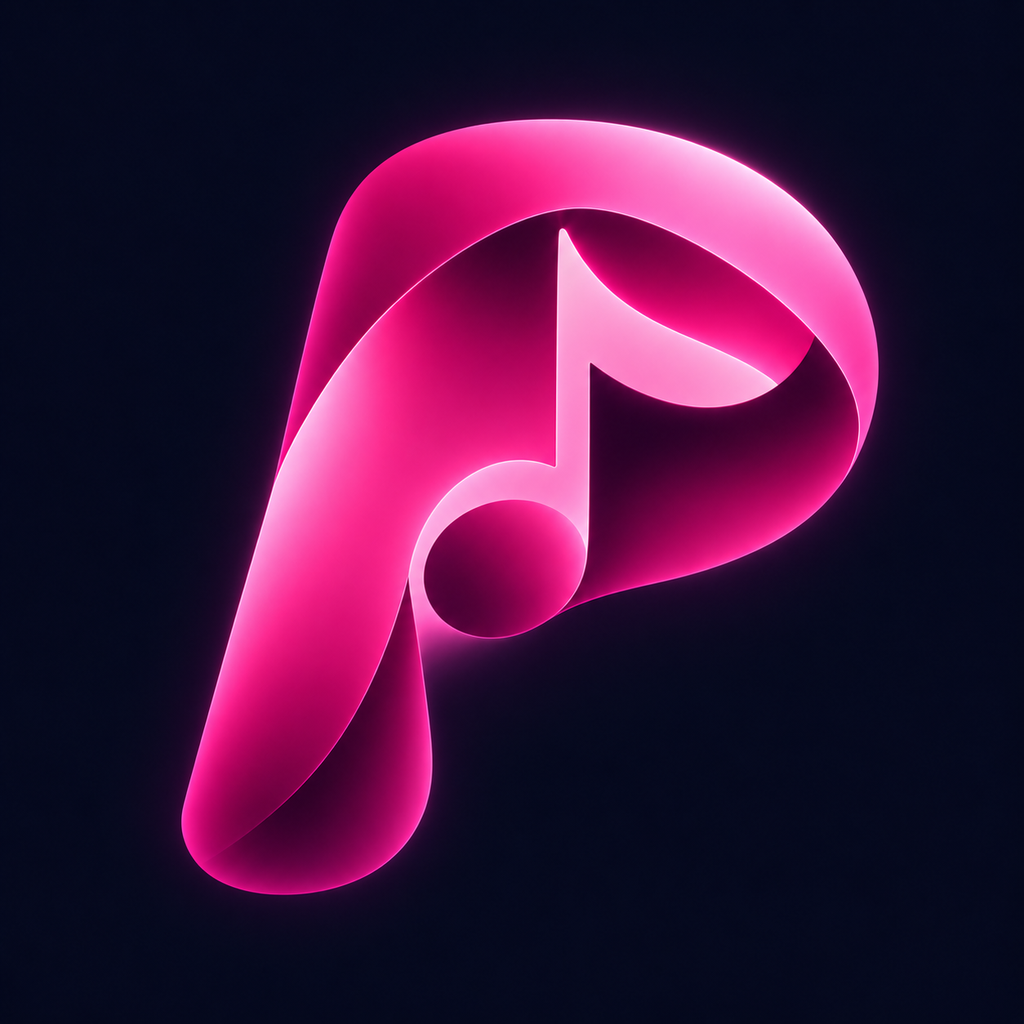
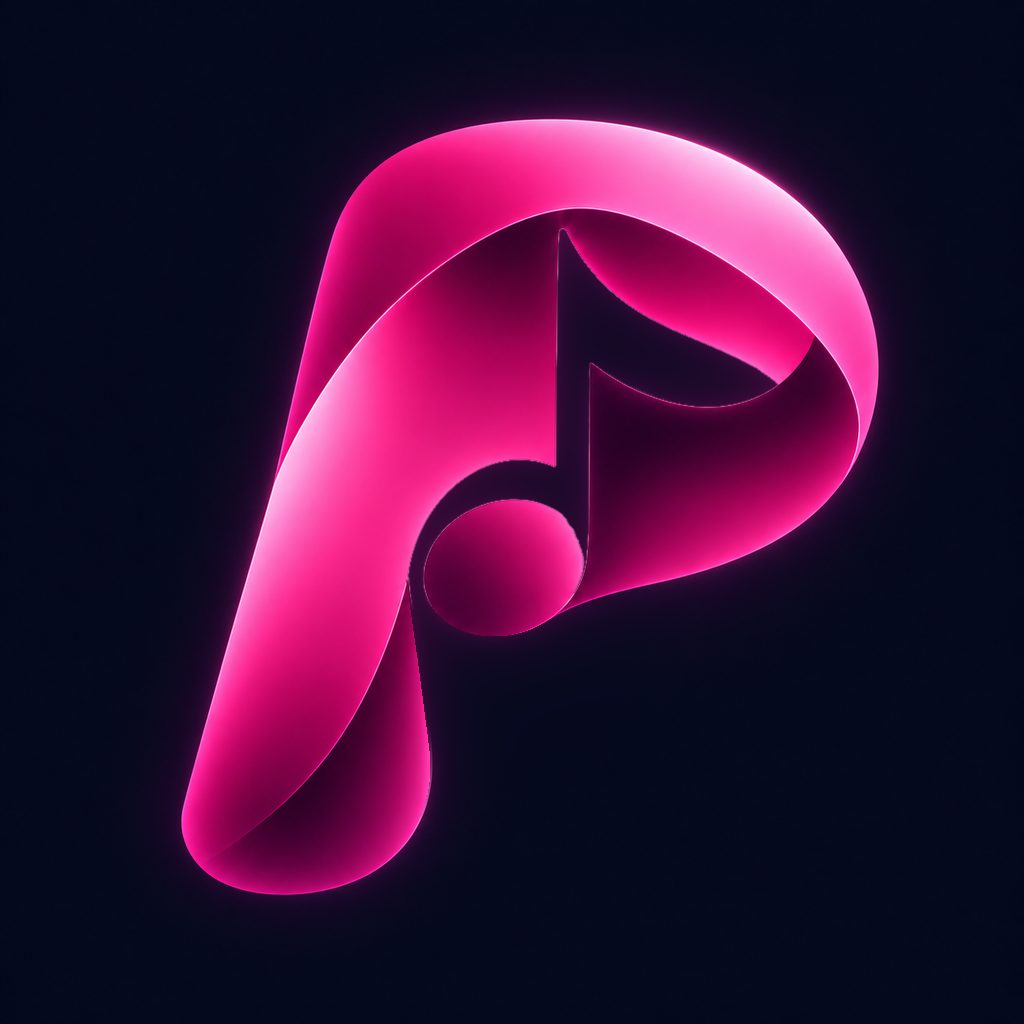
Primuse 图标的深色与单色样式也改成镂空音符，与浅色一致
Apple TV 图标分层、顶部横幅与品牌标记同步更新。

Changed region(s): [[0.375, 0.2188, 0.75, 0.75]]

diff --git a/IconDesign/AppIcons2026/README.md b/IconDesign/AppIcons2026/README.md
@@ -2,7 +2,7 @@
 
 The production catalog contains one primary icon and seven alternates:
 
-- `00-primuse.png` — primary icon, named Primuse: a folded magenta ribbon that forms a P, with an eighth note set into its bowl. Light puts it on warm white, Dark on deep navy with a soft pink glow, and Tinted renders it as a white ribbon on grey.
+- `00-primuse.png` — primary icon, named Primuse: a folded magenta ribbon that forms a P, with an eighth note cut out of its bowl. Light puts it on warm white, Dark on deep navy with a soft pink glow, and Tinted renders it as a white ribbon on charcoal; in all three the note is negative space showing the plate's own ground.
 - `20-soft-note.png` — the previous primary icon, retained as an alternate: a cream dimensional eighth note with a soft cast shadow, on a mint-to-aqua gradient. It was primary twice (before and after Chris’s Muse) and briefly alternate 18; number 18 is retired.
 - `19-chris-muse.png` — an earlier primary icon, retained as an alternate: Chris’s Muse, designed by Chris, with a white dimensional note on red in Light and a pink-red note on charcoal in Dark.
 - `16-nonoend.png` — NonoEnd: a pink-violet bass clef. Light sets it on a neutral grey gradient with a top-left rim light and a cast shadow; Dark sets the same clef on a deep indigo-to-plum plate.
@@ -15,7 +15,7 @@ Private Library, Lossless Audio, Record Collection, Speaker Play, Muse Spark, Co
 
 ## Appearance system
 
-Primuse, the soft note, the folded note, and Pikaqiu preserve their Light, Dark, and Tinted PNGs without palette normalization; Primuse's three supplied plates share one composition and are only resized to 1024×1024. The soft note's Tinted plate is the one exception to the catalog's usual polarity: it carries a dark glyph on a light field rather than a light glyph on a near-black one.
+Primuse, the soft note, the folded note, and Pikaqiu preserve their Light, Dark, and Tinted PNGs without palette normalization; Primuse's three supplied plates share one composition and are only resized to 1024×1024, except for the note: the supplied Dark and Tinted plates drew it as a filled light shape while Light shows it as a cut-out, so the note was cut out of those two to match. The hole follows the Dark plate's own note outline (crisp everywhere, whereas Light's note head fades into the hole through a highlight) and is refilled with each plate's ground: on Dark a polynomial fit of the navy plus the ribbon glow, refitted from the outer edges as a mix of blurred glyph coverages (residual rms 0.9) so the hole glows exactly like the field around the P; on Tinted the flat ground, lowered from 52 to 28 grey so the cut-out note still separates from the shaded ribbon. The filled-note plates as supplied are in history at 844e2921. The soft note's Tinted plate is the one exception to the catalog's usual polarity: it carries a dark glyph on a light field rather than a light glyph on a near-black one.
 
 The splash and Letter P share one material: a white glyph with its own shading and a soft cast shadow over a single solid colour. Their Dark variants keep the identical composition with a colour-tinted glyph on charcoal, and their Tinted variants use a silver glyph on near-black.
 
@@ -27,7 +27,7 @@ All iOS masters are 1024×1024 full-bleed RGB PNGs with no baked platform corner
 
 ## tvOS
 
-tvOS uses the Dark Primuse plate, since a white plate glares on a television, in independently composed landscape/parallax assets: the ribbon P and its pink glow form the transparent `Front` layer, the navy field is the `Back` layer. Compositing `Front` over `Back` reproduces the square plate (rms 0.8). The ground is a polynomial fit sampled 150 px clear of the glyph so the glow is excluded; the glyph is opaque wherever it differs from the ground by more than 60 levels, and the glow fades out with that difference, keeping its hue. `BrandMark` is the Dark square plate at 256×256. The square-icon generator does not produce any of these; the P stands 56% of canvas height in `Front` and 44% on the Top Shelf, keeping the square plate's centring.
+tvOS uses the Dark Primuse plate, since a white plate glares on a television, in independently composed landscape/parallax assets: the ribbon P and its pink glow form the transparent `Front` layer, the navy field is the `Back` layer, and it shows through the note cut out of `Front`. Compositing `Front` over `Back` reproduces the square plate (rms 0.8). The ground is a polynomial fit sampled 150 px clear of the glyph so the glow is excluded; the glyph is opaque wherever it differs from the ground by more than 60 levels, and the glow fades out with that difference, keeping its hue. `BrandMark` is the Dark square plate at 256×256. The square-icon generator does not produce any of these; the P stands 56% of canvas height in `Front` and 44% on the Top Shelf, keeping the square plate's centring.
 
 The asset structure remains:
 
